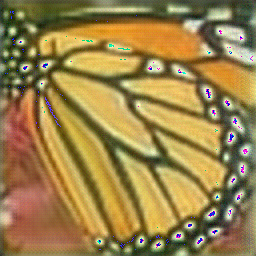
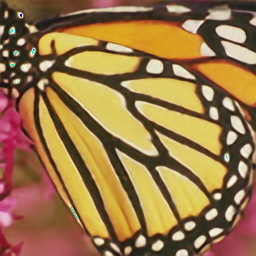
Working on evaluation suite

diff --git a/srresnet_evaluate.py b/srresnet_evaluate.py
@@ -5,6 +5,7 @@ from torch.autograd import Variable
 args = options.SRResNetTestOptions().parse()
 datasets = data.build_evaluation_dataset(args)
 srresnet = models.SRResNet(args)
+sr_imgs = []
 
 for dataset_name, (hr_imgs, lr_imgs) in datasets.iteritems():
     assert len(hr_imgs) == len(lr_imgs)
@@ -12,11 +13,14 @@ for dataset_name, (hr_imgs, lr_imgs) in datasets.iteritems():
     total_psnr = 0.0
 
     for i in range(len(lr_imgs)):
-        lr_img = Variable(lr_imgs[i])
-        hr_img = Variable(hr_imgs[i])
+        lr_img = Variable(lr_imgs[i].unsqueeze(0))
+        hr_img = Variable(hr_imgs[i].unsqueeze(0))
         sr_img = srresnet.super_resolve(lr_img)
+        sr_imgs.append(sr_img.data[0])
         total_psnr += helpers.evaluate_psnr(sr_img, hr_img)
 
     total_psnr /= len(lr_imgs)
+    helpers.save_sr_results(args, dataset_name, sr_imgs)
+    sr_imgs = []
 
     print "Dataset " + dataset_name + " PSNR: " + str(total_psnr)

diff --git a/helpers.py b/helpers.py
@@ -37,8 +37,7 @@ def weights_init(m):
         m.bias.data.fill_(0)
 
 
-def evaluate_psnr(sr_img, hr_img):
-    r = 1
+def evaluate_psnr(sr_img, hr_img, r=1):
     mse_loss = nn.MSELoss()
     mse = mse_loss(sr_img, hr_img)
     return 10 * log10((r**2) / mse.data[0])
@@ -61,3 +60,13 @@ def save_images(model, args):
     hr_img.save("%s/hr_img.png" % args.out_folder)
     lr_img.save("%s/lr_img.png" % args.out_folder)
     sr_img.save("%s/sr_img.png" % args.out_folder)
+
+
+def save_sr_results(args, dataset_name, sr_imgs):
+    to_pil = transforms.ToPILImage()
+    count = 0
+
+    for sr_img in sr_imgs:
+        count += 1
+        img = to_pil(sr_img)
+        img.save("%s/%s/sr_img_%03d" % (args.out_folder, dataset_name, count))

diff --git a/options.py b/options.py
@@ -72,9 +72,8 @@ class SRResNetTestOptions():
     def __init__(self):
         self.parser = argparse.ArgumentParser()
 
-        self.parser.add_argument('--model', requried=True, help="path to model weights")
+        self.parser.add_argument('--model', required=True, help="path to model weights")
         self.parser.add_argument('--test_path', default=".", help="path to test sets")
-        self.parser.add_argument('--psnr_file', default="./srresnet_out/psnr_results.txt", help="file to write PSNR results to")
         self.parser.add_argument('--out_folder', default="./srresnet_out", help="directory to store results")
         self.parser.add_argument('--mode', default="test", help="indicates testing mode")
 

diff --git a/models.py b/models.py
@@ -101,7 +101,7 @@ class SRResNet():
         if args.model == "":
             self.model.apply(helpers.weights_init)
         else:
-            self.model.load_state_dict(torch.load(args.model))
+            self.model.load_state_dict(torch.load(args.model, map_location=lambda storage, loc: storage))
 
         if args.mode == "train":
             if args.use_mse:

diff --git a/srresnet_train.py b/srresnet_train.py
@@ -1,3 +1,4 @@
+#cluster stuff, remove this
 import sys
 sys.path.append("/home/adamvest/lib/python")
 
